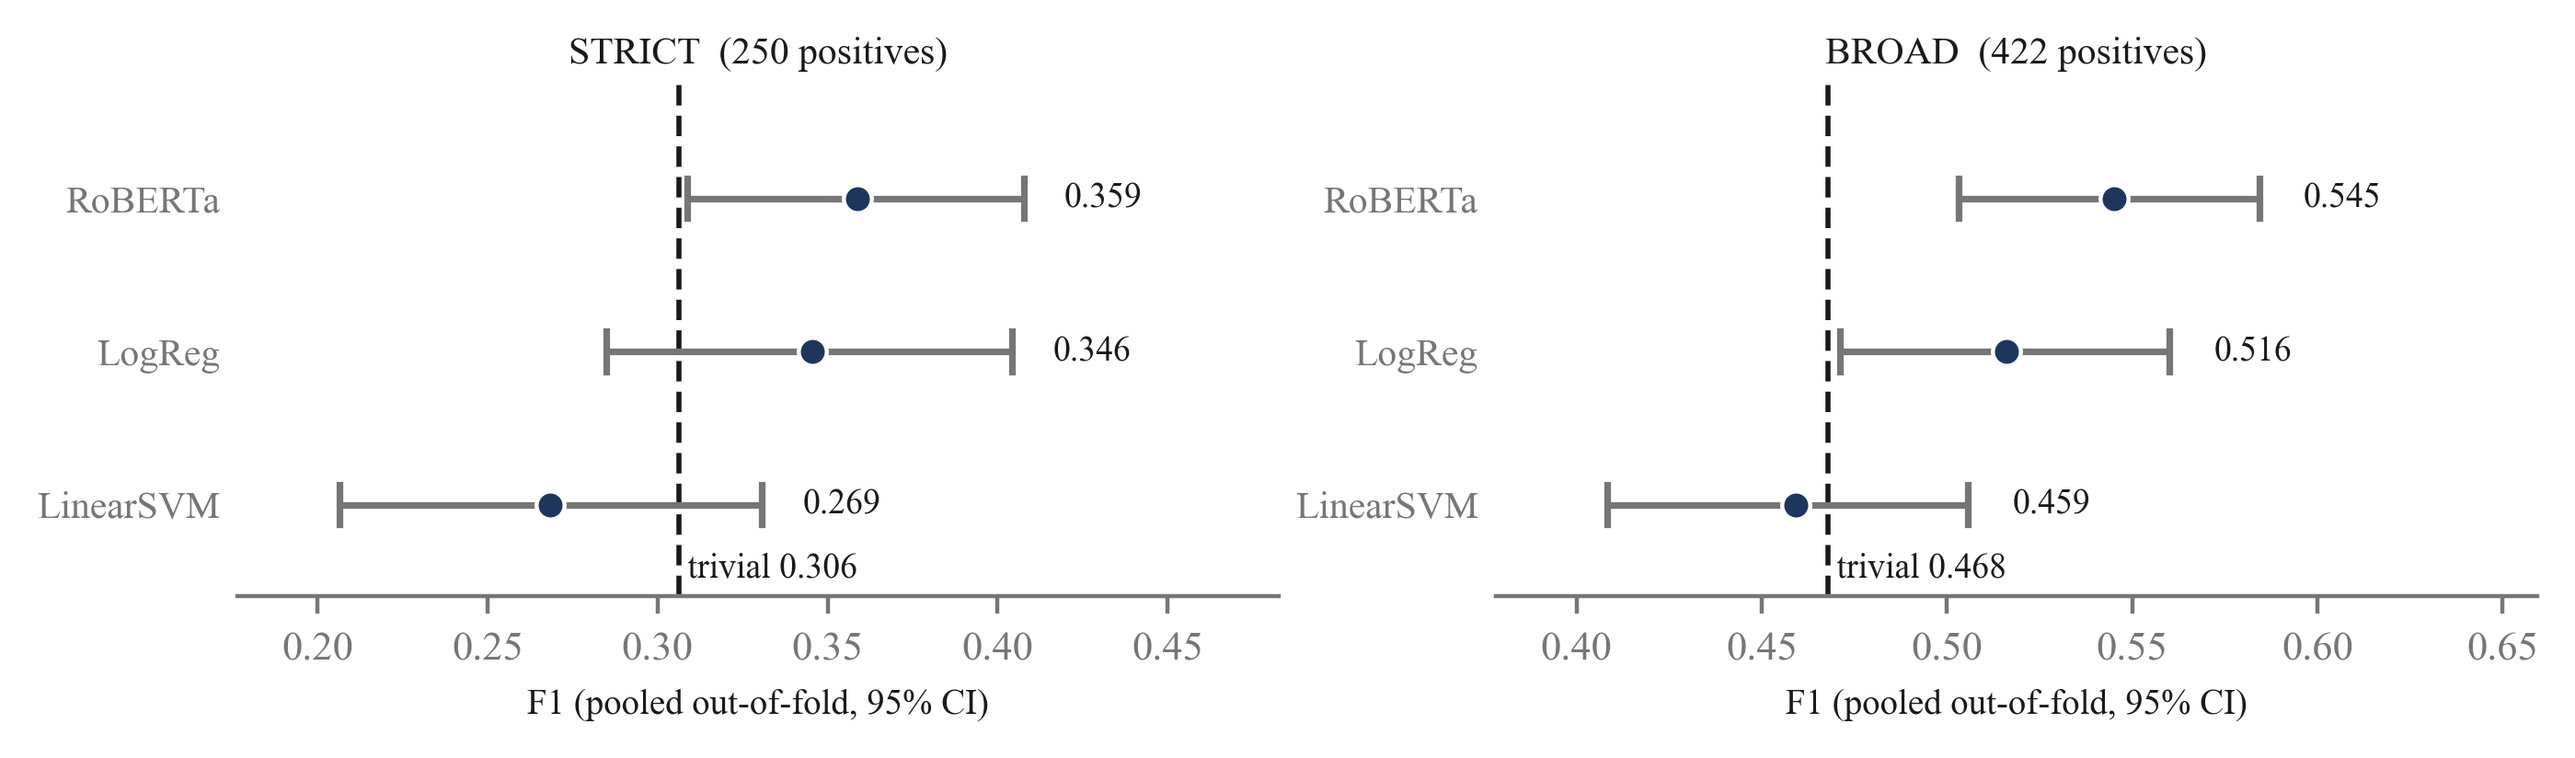
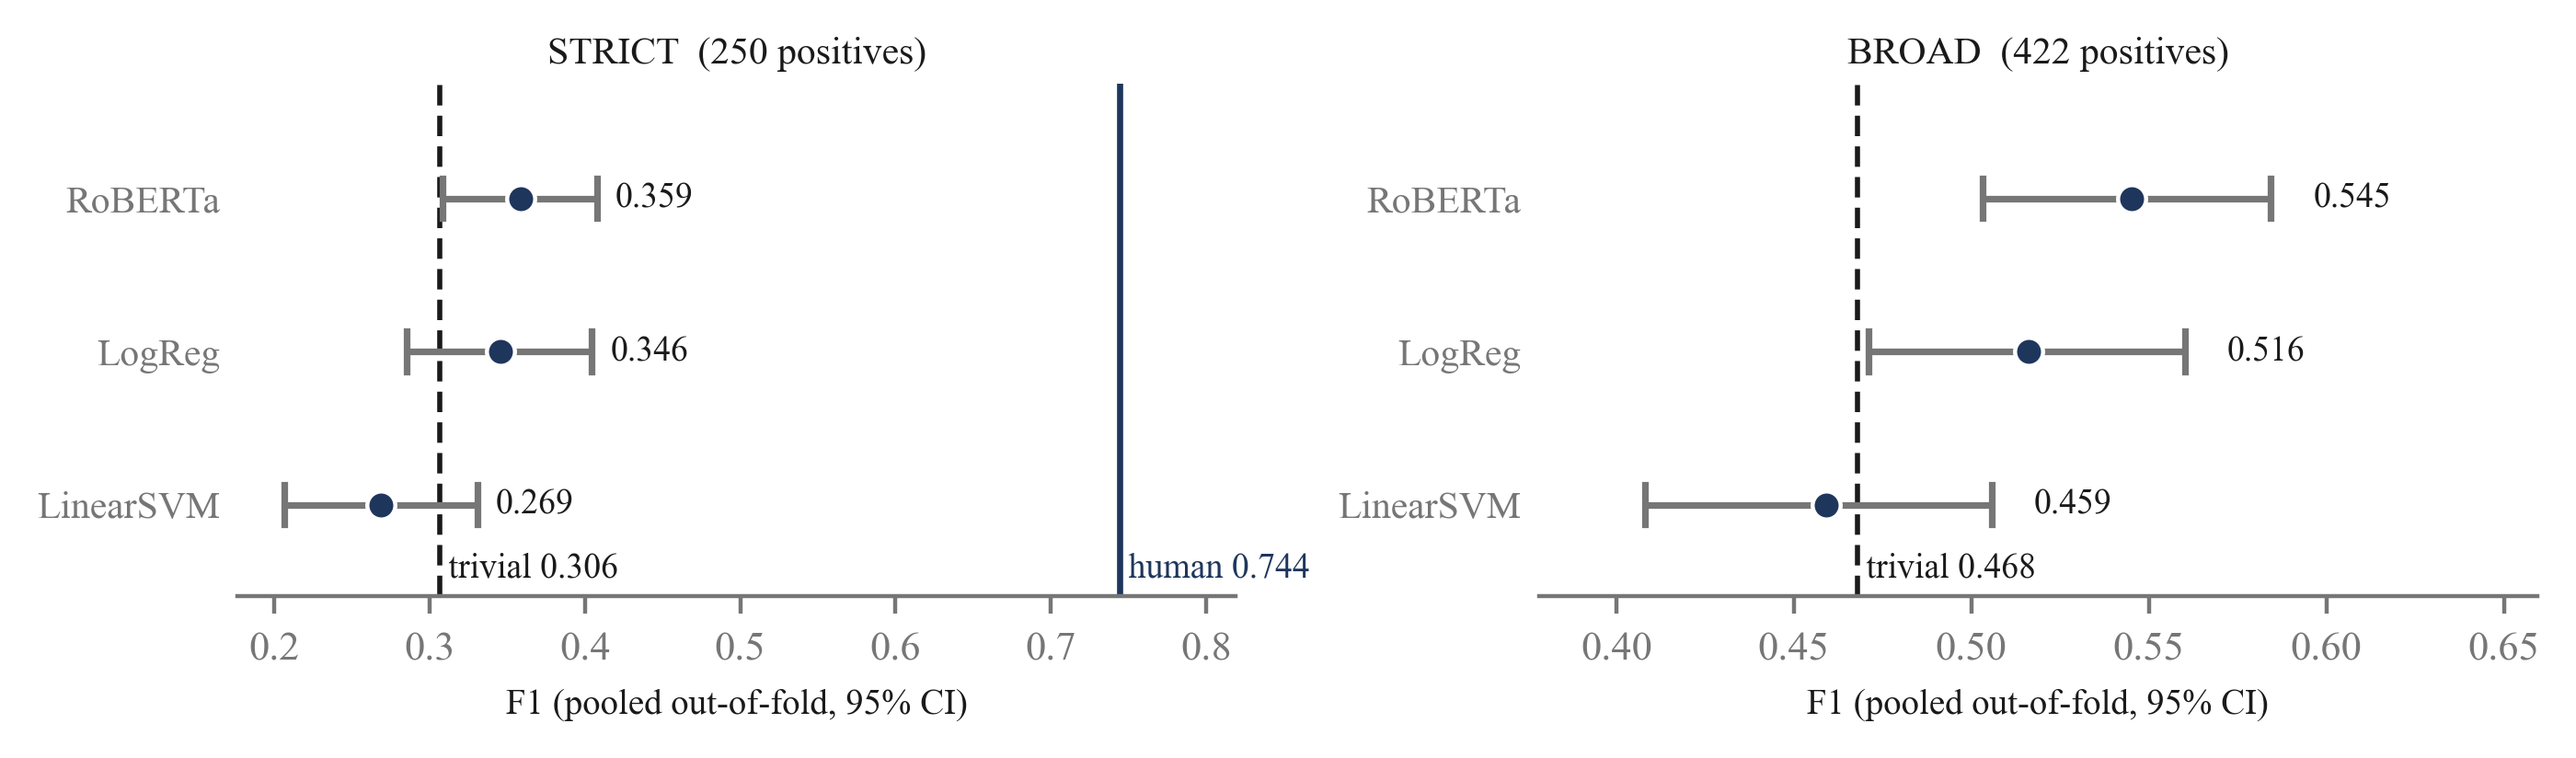
Record the human ceiling: a second annotator reaches F1 0.744
Derived from the agreement counts already in the benchmark (250 both, 172 one,
960 neither). Scoring one annotator as a classifier against the other gives
precision = recall = F1 = 0.744 and MCC 0.662, the latter equal to Cohen's
kappa by construction.

This bounds the task from above. The best model reaches 48% of it, and a
reported F1 of 1.000 would claim to exceed the agreement of the annotators who
defined the labels.

diff --git a/scripts/figs_v2.py b/scripts/figs_v2.py
@@ -114,17 +114,17 @@ def fig_folds(path):
     all-positive floor is drawn because a method below it has shown nothing.
     """
     panels = [
-        ("STRICT  (250 positives)", 0.3064,
+        ("STRICT  (250 positives)", 0.3064, 0.744,
          [("LinearSVM", 0.2685, 0.2065, 0.3307),
           ("LogReg",    0.3456, 0.2850, 0.4043),
           ("RoBERTa",   0.3587, 0.3086, 0.4077)]),
-        ("BROAD  (422 positives)", 0.4678,
+        ("BROAD  (422 positives)", 0.4678, None,
          [("LinearSVM", 0.4591, 0.4082, 0.5057),
           ("LogReg",    0.5160, 0.4710, 0.5601),
           ("RoBERTa",   0.5451, 0.5031, 0.5843)]),
     ]
     fig, axes = plt.subplots(1, 2, figsize=(6.9, 1.95))
-    for ax, (title, triv, rows) in zip(axes, panels):
+    for ax, (title, triv, ceiling, rows) in zip(axes, panels):
         ys = np.arange(len(rows))
         for y, (name, pt, lo, hi) in zip(ys, rows):
             ax.plot([lo, hi], [y, y], color=MID, linewidth=1.3,
@@ -138,6 +138,10 @@ def fig_folds(path):
                     va="center", ha="left")
         ax.axvline(triv, color=INK, linewidth=1.0, linestyle=(0, (4, 2)),
                    zorder=1)
+        if ceiling is not None:
+            ax.axvline(ceiling, color=ACCENT, linewidth=1.2, zorder=1)
+            ax.text(ceiling, -0.52, " human %.3f" % ceiling,
+                    fontsize=6.8, color=ACCENT, ha="left", va="bottom")
         # below the lowest row, where nothing else is drawn
         ax.text(triv, -0.52, " trivial %.3f" % triv, fontsize=6.8,
                 color=INK, ha="left", va="bottom")
@@ -146,7 +150,8 @@ def fig_folds(path):
         ax.set_ylim(-0.6, len(rows) - 0.25)
         lo_all = min(r[2] for r in rows)
         hi_all = max(r[3] for r in rows)
-        ax.set_xlim(min(lo_all, triv) - 0.03, hi_all + 0.075)
+        right = max(hi_all, ceiling or 0)
+        ax.set_xlim(min(lo_all, triv) - 0.03, right + 0.075)
         ax.set_xlabel("F1 (pooled out-of-fold, 95% CI)", fontsize=7)
         ax.set_title(title, fontsize=7.5, color=INK, pad=4)
         ax.spines["left"].set_visible(False)

diff --git a/README.md b/README.md
@@ -15,13 +15,17 @@ These artifacts exist so both can be checked rather than taken on trust.
 | Sensitive, strict (both annotators) / broad (either) | 250 (18.1%) / 422 (30.5%) |
 | **Cohen's kappa** | **0.662** (observed agreement 0.876) |
 | Trivial all-positive floor | F1 0.306 strict, 0.468 broad |
+| **Human ceiling** (second annotator as a classifier) | **F1 0.744**, MCC 0.662 |
 | Strongest single term of 8,984 | `'in'`, F1 0.321 |
 | Best method, strict | RoBERTa F1 0.359, 95% CI [0.309, 0.408] |
 | Best method, broad | RoBERTa F1 0.545, 95% CI [0.503, 0.584] |
 
 Nothing here is near-perfect, every confidence interval overlaps its
-neighbours, and that is the result rather than a disappointment. Quote every
-figure against the trivial floor.
+neighbours, and that is the result rather than a disappointment. Quote
+every figure against both bounds: the trivial floor below and the human
+ceiling above. The best model reaches 48% of what a second annotator
+achieves, and a published F1 of 1.000 on this task would claim to exceed
+the agreement of the people who defined the labels.
 
 ## Reproduce it
 

diff --git a/results/RESULTS_FINAL.md b/results/RESULTS_FINAL.md
@@ -12,6 +12,14 @@ trivial floor: strict 0.3064, broad 0.4678
 duplicates 0 | multi-message threads 173 | mixed-label 55
 strongest of 8984 terms: 'in' F1 0.3210 (trivial 0.3064, margin +0.0146)
 
+## Human ceiling, derived from the same agreement counts
+One annotator scored as a classifier predicting the other:
+  TP 250 | FP 86 | FN 86 | TN 960   (the 172 disagreements split evenly)
+  precision 0.7440 | recall 0.7440 | F1 0.7440 | MCC 0.6618
+The MCC equals Cohen's kappa exactly - for a two-class problem with symmetric
+disagreement the two statistics reduce to the same quantity.
+=> the task's ceiling is F1 0.744, not 1.000. RoBERTa's 0.359 is 48% of it.
+
 ## STRICT labels, thread-grouped 5-fold
 model         F1      P       R      MCC     ROC     PR      mean+-sd        CI95
 LinearSVM     0.2685  0.4261  0.1960  0.1919  0.7183  0.3439  0.2658+-0.0760 [0.2065,0.3307]
